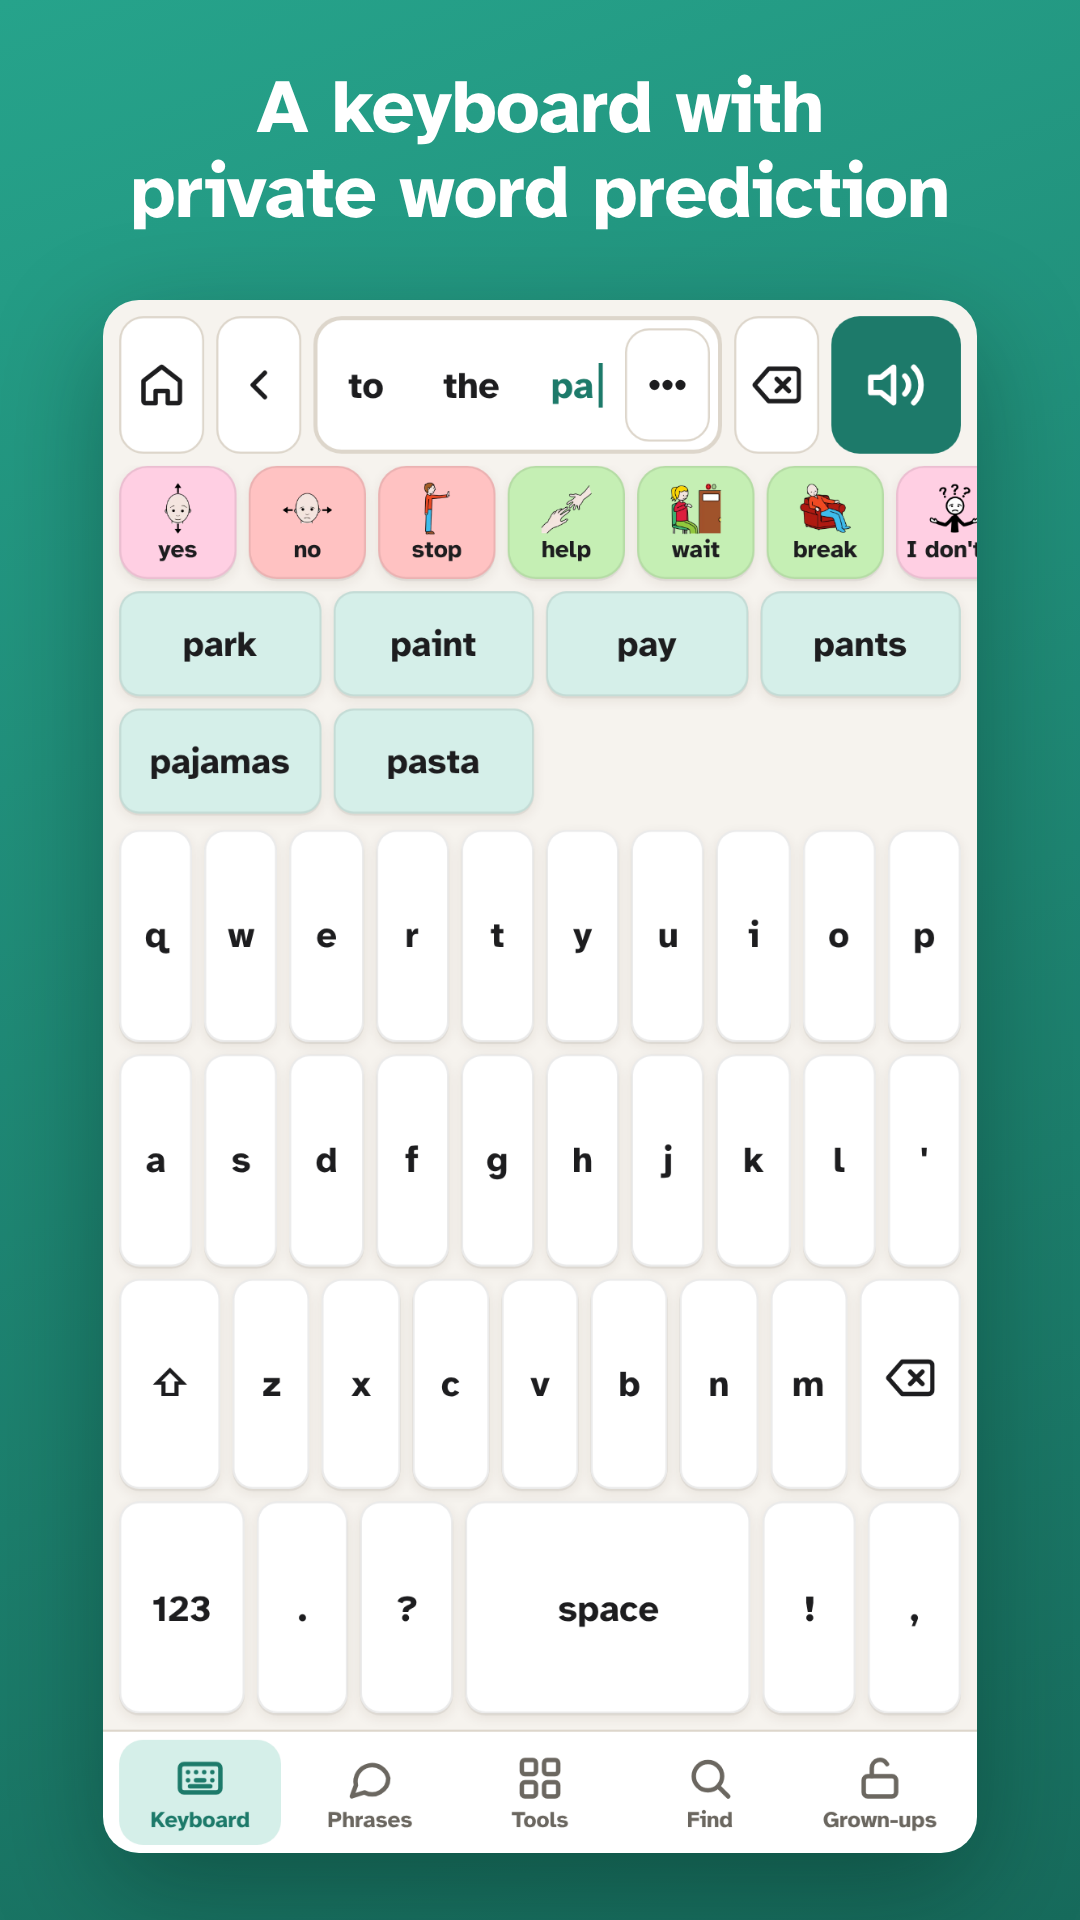
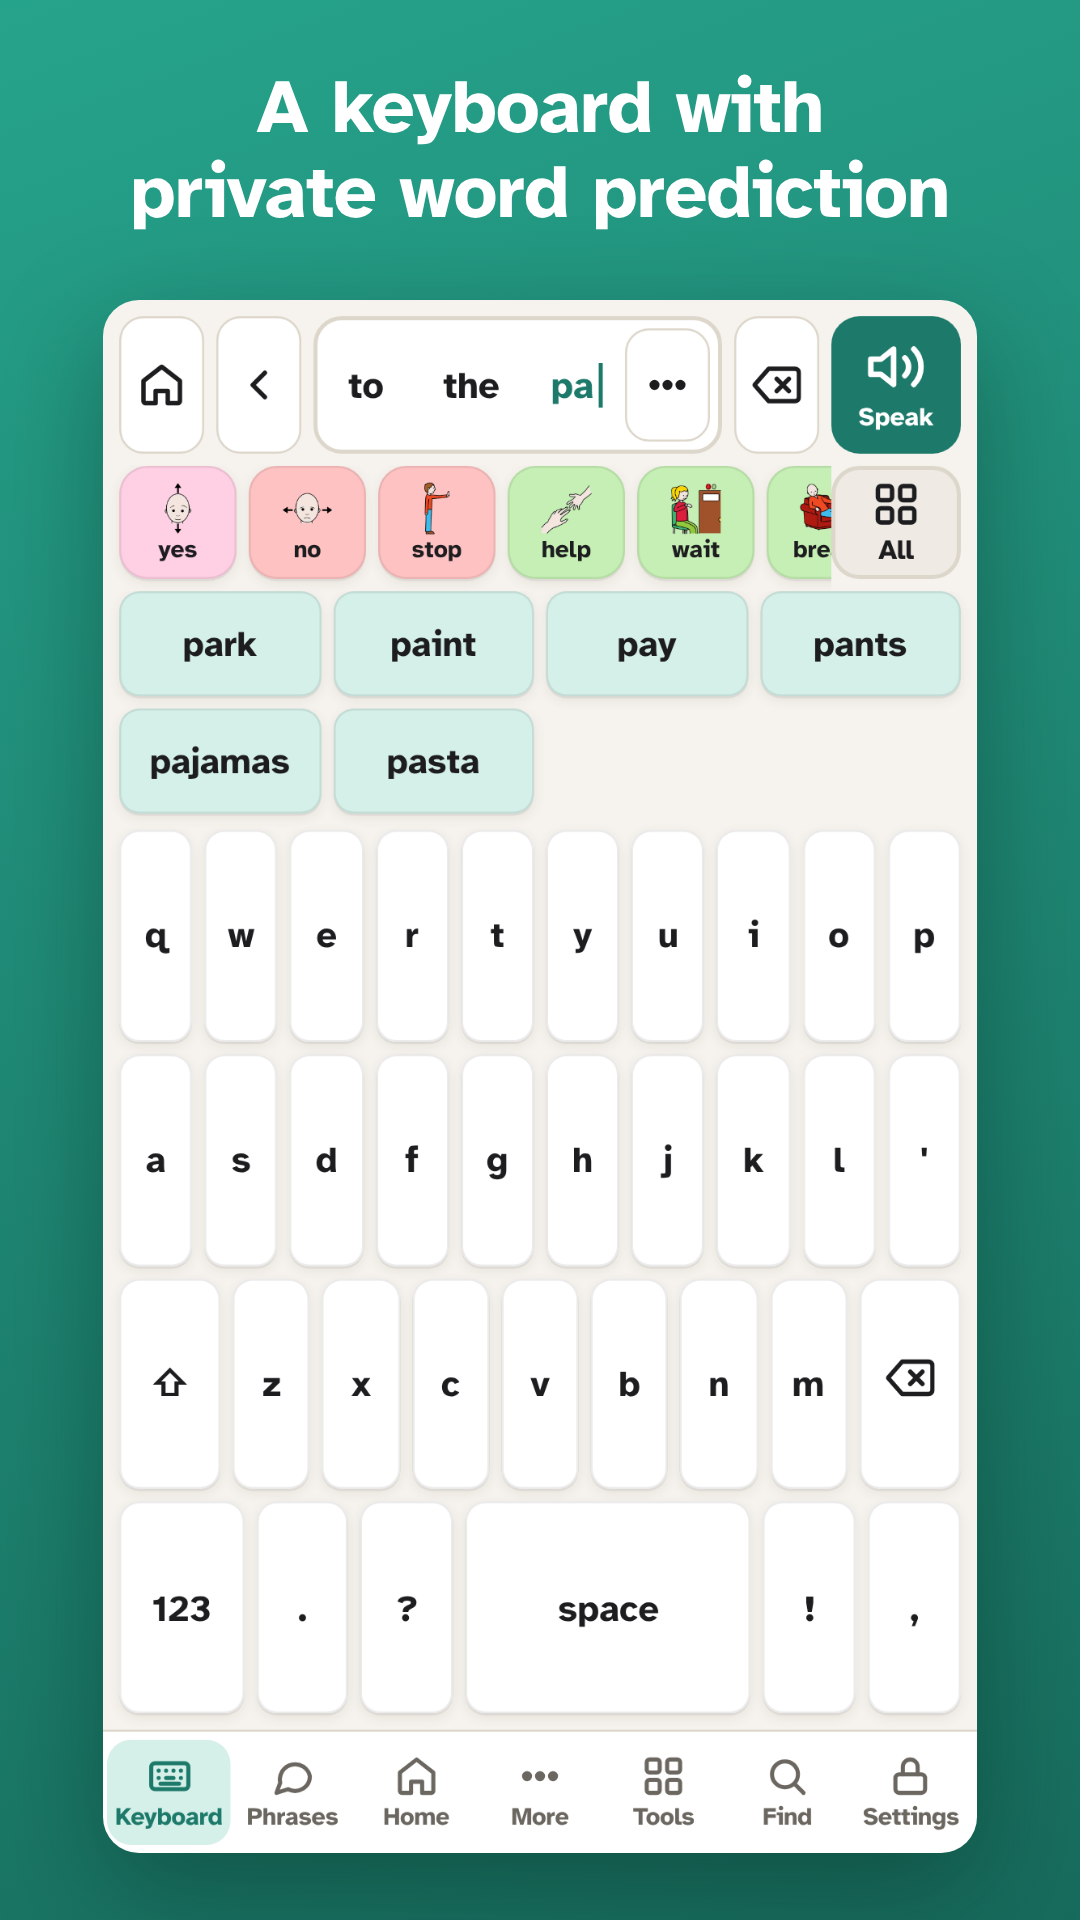
Store screenshots: App Store sizes (iPhone 6.9", iPad 13"), refreshed Play set
The script now uses the Phrases folder cards, a stand-in voice and no notices.

Claude-Session: https://claude.ai/code/session_01NE2YDpdXzfKVTtbsXwShAy

diff --git a/docs/app-store.md b/docs/app-store.md
@@ -11,6 +11,7 @@ The iPhone/iPad app is the same web app inside a native shell (Capacitor, `ios/`
 | Minimum iOS | 16.4 (needed by on-device text recognition) |
 | Native project | `ios/App/App.xcodeproj` (Swift Package Manager; no CocoaPods) |
 | Icon, splash | generated by `node scripts/make-icons.mjs` |
+| Screenshots | `fastlane/screenshots/en-US/` (iPhone 6.9" and iPad 13") |
 | Permission texts | `ios/App/App/Info.plist` (English) and `ios/App/App/{es,fr,pt}.lproj/InfoPlist.strings` |
 | Build check | `.github/workflows/ios.yml` builds for the Simulator on every pull request |
 | Privacy policy | `https://aacappfree.com/privacy.html` |
@@ -75,7 +76,7 @@ With a Mac instead: `npm ci && npm run build && npx cap sync ios && npx cap open
 
 ## 7. The version page
 
-- **Screenshots:** required for **iPhone 6.9"** (1320 × 2868 portrait or 2868 × 1320 landscape) and **iPad 13"** (2064 × 2752 or 2752 × 2064). Take them in the iOS Simulator, or from the web app in Chrome DevTools at those sizes (`scripts/store-screenshots.cjs` is a starting point).
+- **Screenshots:** required for **iPhone 6.9"** (1320 × 2868 portrait or 2868 × 1320 landscape) and **iPad 13"** (2064 × 2752 or 2752 × 2064). Ready-made ones are in **`fastlane/screenshots/en-US/`** (`iPhone_*.png` and `iPad_*.png`). Regenerate them with `IOS=1 node scripts/store-screenshots.cjs <preview url>` (see the script's header).
 - **Promotional text / description / keywords:** reuse `fastlane/metadata/android/en-US/full_description.txt` and `short_description.txt`. Keywords (100 characters), for example: `AAC,autism,nonverbal,speech,communication,symbols,talker,picture,board,PECS,apraxia,offline`.
 - **Support URL:** `https://aacappfree.com/guide/`. **Marketing URL:** `https://aacappfree.com`. **Privacy policy URL:** `https://aacappfree.com/privacy.html`.
 - **Copyright:** `2026 AACFree contributors`.
